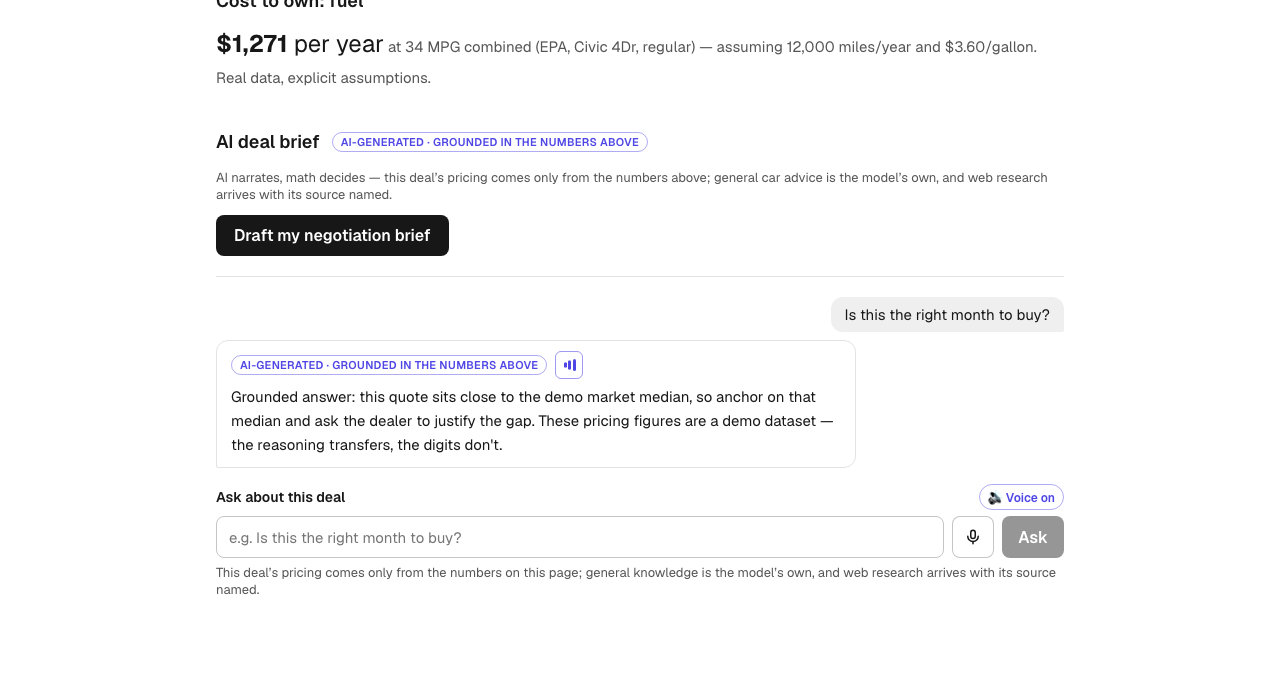
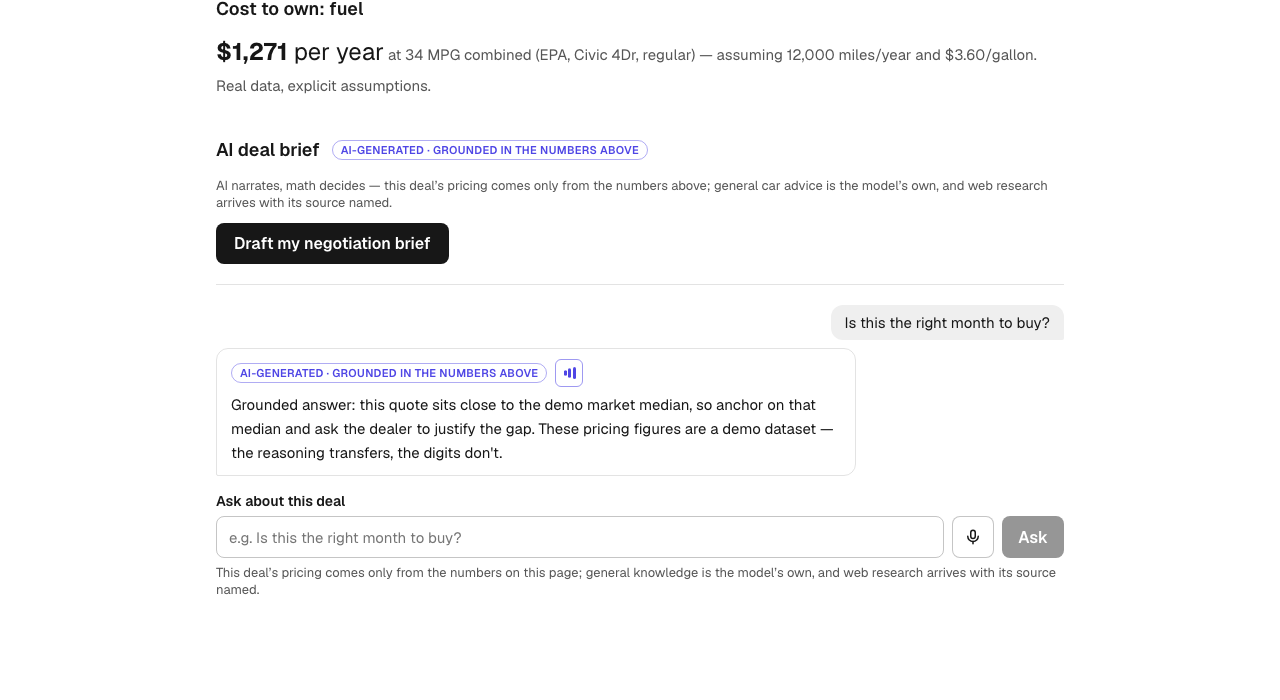
refactor(voice): the reply's speaker is the whole interface
Field feedback: the global Voice on/off pill was redundant — answers
speak automatically, and the 🔊 on each reply already carries the full
contract (pause in place / resume from there / replay). Removed the
toggle and the voicePref store. Also fixed a pre-existing E2E race the
voice work widened: the ask-replay test now waits for the committed
answer bubble instead of text that is already visible while streaming.

diff --git a/src/components/DealBrief/AskThread.test.tsx b/src/components/DealBrief/AskThread.test.tsx
@@ -3,7 +3,6 @@ import { act, fireEvent, render, screen, waitFor } from "@testing-library/react"
 import { FakeRecognizer } from "@/lib/fakeSpeechRecognizer";
 import type { SpeechRecognitionCtor } from "@/lib/useSpeechInput";
 import { primeTtsAvailabilityForTests } from "@/lib/ttsAvailability";
-import { setVoicePref } from "@/lib/voicePref";
 import { resetSpeakerArbiterForTests, type SpeakerDeps } from "@/lib/useSpeaker";
 import { AskThread } from "./AskThread";
 
@@ -131,11 +130,9 @@ describe("AskThread", () => {
     beforeEach(() => {
       primeTtsAvailabilityForTests("enabled");
       resetSpeakerArbiterForTests();
-      // jsdom localStorage persists across tests in a file; pin the pref.
-      setVoicePref(true);
     });
 
-    it("the newest answer speaks on its own when voice replies are on", async () => {
+    it("a finished answer speaks on its own", async () => {
       vi.stubGlobal(
         "fetch",
         vi.fn().mockResolvedValue(streamResponse(["Grounded answer."])),
@@ -153,8 +150,7 @@ describe("AskThread", () => {
       );
     });
 
-    it("stays silent when voice replies are muted — manual play still available", async () => {
-      setVoicePref(false);
+    it("the bubble's speaker pauses in place and resumes on tap", async () => {
       vi.stubGlobal(
         "fetch",
         vi.fn().mockResolvedValue(streamResponse(["Grounded answer."])),
@@ -162,35 +158,19 @@ describe("AskThread", () => {
       const { deps, playable } = fakeSpeaker();
       render(<AskThread {...props} speakerDeps={deps} />);
 
-      const toggle = screen.getByTestId("voice-replies-toggle");
-      expect(toggle).toHaveAttribute("aria-pressed", "false");
-
       ask("Is this the right month to buy?");
-      await waitFor(() => expect(screen.getByTestId("ask-answer")).toBeInTheDocument());
-      expect(playable.play).not.toHaveBeenCalled();
-
-      // The bubble's speaker still plays on demand.
-      fireEvent.click(screen.getByTestId("speaker-button"));
       await waitFor(() => expect(playable.play).toHaveBeenCalledTimes(1));
-    });
 
-    it("muting mid-playback silences the current answer", async () => {
-      vi.stubGlobal(
-        "fetch",
-        vi.fn().mockResolvedValue(streamResponse(["Grounded answer."])),
-      );
-      const { deps, playable } = fakeSpeaker();
-      render(<AskThread {...props} speakerDeps={deps} />);
-
-      ask("Is this the right month to buy?");
-      await waitFor(() => expect(playable.play).toHaveBeenCalled());
-
-      fireEvent.click(screen.getByTestId("voice-replies-toggle"));
+      const speaker = screen.getByTestId("speaker-button");
+      fireEvent.click(speaker);
       expect(playable.pause).toHaveBeenCalled();
-      expect(screen.getByTestId("speaker-button")).toHaveAttribute(
-        "data-state",
-        "paused",
-      );
+      expect(speaker).toHaveAttribute("data-state", "paused");
+
+      fireEvent.click(speaker);
+      await waitFor(() => expect(speaker).toHaveAttribute("data-state", "playing"));
+      // Resume, not replay: one load, no seek.
+      expect(deps.load).toHaveBeenCalledTimes(1);
+      expect(playable.seekToStart).not.toHaveBeenCalled();
     });
   });
 

diff --git a/src/components/DealBrief/AskThread.tsx b/src/components/DealBrief/AskThread.tsx
@@ -5,9 +5,6 @@ import { MicButton } from "@/components/VoiceInput/MicButton";
 import { SpeakerButton } from "@/components/VoiceInput/SpeakerButton";
 import type { SpeechRecognitionCtor } from "@/lib/useSpeechInput";
 import type { SpeakerDeps } from "@/lib/useSpeaker";
-import { stopActivePlayback } from "@/lib/useSpeaker";
-import { useTtsAvailability } from "@/lib/ttsAvailability";
-import { setVoicePref, useVoicePref } from "@/lib/voicePref";
 import { AiBadge, ByokCard } from "./DealBrief";
 import styles from "./AskThread.module.css";
 
@@ -60,8 +57,6 @@ export function AskThread({
   speechRecognitionCtor,
   speakerDeps,
 }: AskThreadProps) {
-  const voiceReplies = useVoicePref();
-  const ttsEnabled = useTtsAvailability() === "enabled";
   const [turns, setTurns] = useState<Turn[]>([]);
   const [draft, setDraft] = useState("");
   /** True while the input shows a live, not-yet-final dictation. */
@@ -136,12 +131,12 @@ export function AskThread({
           <div className={styles.answer} data-testid="ask-answer">
             <span className={styles.answerMeta}>
               <AiBadge />
-              {/* The newest answer speaks on its own (when voice replies
-                  are on); older bubbles keep a manual speaker, and a
-                  paused one resumes exactly where it stopped. */}
+              {/* The newest answer speaks on its own; its 🔊 is the one
+                  control — tap pauses in place, tap resumes from there.
+                  Older bubbles keep their speaker (and their spot). */}
               <SpeakerButton
                 text={turn.a}
-                autoPlay={voiceReplies && index === turns.length - 1}
+                autoPlay={index === turns.length - 1}
                 deps={speakerDeps}
               />
             </span>
@@ -193,32 +188,9 @@ export function AskThread({
       {/* No retry form without a key: retrying can't succeed. */}
       {!noKey && (
         <form className={styles.form} onSubmit={handleSubmit}>
-          <div className={styles.labelRow}>
-            <label className={styles.label} htmlFor="deal-ask-question">
-              Ask about this deal
-            </label>
-            {ttsEnabled && (
-              <button
-                type="button"
-                data-testid="voice-replies-toggle"
-                className={styles.voiceToggle}
-                aria-pressed={voiceReplies}
-                title={
-                  voiceReplies
-                    ? "New answers speak automatically — click to mute"
-                    : "Voice replies are muted — click to let new answers speak"
-                }
-                onClick={() => {
-                  const next = !voiceReplies;
-                  setVoicePref(next);
-                  // Muting silences whatever is talking right now too.
-                  if (!next) stopActivePlayback();
-                }}
-              >
-                {voiceReplies ? "🔊 Voice on" : "🔇 Voice off"}
-              </button>
-            )}
-          </div>
+          <label className={styles.label} htmlFor="deal-ask-question">
+            Ask about this deal
+          </label>
           <div className={styles.inputRow}>
             <input
               id="deal-ask-question"

diff --git a/src/components/DealBrief/AskThread.module.css b/src/components/DealBrief/AskThread.module.css
@@ -78,36 +78,6 @@
   font-weight: 600;
 }
 
-.labelRow {
-  display: flex;
-  align-items: baseline;
-  justify-content: space-between;
-  gap: 0.75rem;
-}
-
-/* Global auto-speak toggle: quiet text control, no layout weight. */
-.voiceToggle {
-  flex: none;
-  padding: 0.125rem 0.5rem;
-  font-size: 0.75rem;
-  font-weight: 600;
-  font-family: inherit;
-  color: var(--color-muted);
-  background: transparent;
-  border: 1px solid var(--color-border);
-  border-radius: 999px;
-  cursor: pointer;
-}
-
-.voiceToggle:hover {
-  color: var(--color-fg);
-  border-color: var(--color-border-strong);
-}
-
-.voiceToggle[aria-pressed="true"] {
-  color: var(--color-accent);
-  border-color: color-mix(in srgb, var(--color-accent) 45%, transparent);
-}
 
 .inputRow {
   display: flex;

diff --git a/e2e/voice-replies.spec.ts b/e2e/voice-replies.spec.ts
@@ -59,23 +59,26 @@ test("a new answer speaks on its own; tap pauses, tap again resumes", async ({
   await expect(speaker).toHaveAttribute("data-state", "playing");
 });
 
-test("the global toggle mutes auto-speak for the next answer", async ({ page }) => {
+test("a second answer takes the floor — the first pauses, resumable in place", async ({
+  page,
+}) => {
   await page.addInitScript(FAKE_AUDIO_INIT);
   await page.goto(DEAL_URL);
 
-  const toggle = page.getByTestId("voice-replies-toggle");
-  await toggle.scrollIntoViewIfNeeded();
-  await expect(toggle).toHaveAttribute("aria-pressed", "true"); // on by default
-  await toggle.click();
-  await expect(toggle).toHaveAttribute("aria-pressed", "false");
-
   await askQuestion(page, "Is this the right month to buy?");
-  const speaker = page.getByTestId("speaker-button");
-  await expect(speaker).toBeVisible();
-  // Muted: no autoplay — but the manual button still works.
-  await expect(speaker).toHaveAttribute("data-state", "idle");
-  await speaker.click();
-  await expect(speaker).toHaveAttribute("data-state", "playing");
+  const speakers = page.getByTestId("speaker-button");
+  await expect(speakers.first()).toHaveAttribute("data-state", "playing");
+
+  await askQuestion(page, "What about the doc fee?");
+  await expect(speakers).toHaveCount(2);
+  // The new answer speaks; the older one paused where it was.
+  await expect(speakers.nth(1)).toHaveAttribute("data-state", "playing");
+  await expect(speakers.nth(0)).toHaveAttribute("data-state", "paused");
+
+  // Tapping the older one resumes it and pauses the newer one.
+  await speakers.nth(0).click();
+  await expect(speakers.nth(0)).toHaveAttribute("data-state", "playing");
+  await expect(speakers.nth(1)).toHaveAttribute("data-state", "paused");
 });
 
 test("the brief gets a listen button and never auto-plays", async ({ page }) => {

diff --git a/e2e/ask.spec.ts b/e2e/ask.spec.ts
@@ -39,6 +39,10 @@ test("a second question replays the first turn to the server", async ({ page }) 
   const thread = page.getByTestId("ask-thread");
   await thread.getByLabel("Ask about this deal").fill(FIRST_QUESTION);
   await thread.getByRole("button", { name: "Ask" }).click();
+  // Wait for the COMMITTED turn, not just its text — the same words are
+  // visible in the streaming bubble a beat earlier, while the form still
+  // ignores submits.
+  await expect(thread.getByTestId("ask-answer")).toHaveCount(1);
   await expect(thread.getByText(/the reasoning transfers/)).toBeVisible();
 
   await thread.getByLabel("Ask about this deal").fill("What about the fuel cost?");

diff --git a/vitest.setup.ts b/vitest.setup.ts
@@ -2,7 +2,6 @@ import "@testing-library/jest-dom/vitest";
 import { beforeEach } from "vitest";
 import { primeSttAvailabilityForTests } from "./src/lib/sttAvailability";
 import { primeTtsAvailabilityForTests } from "./src/lib/ttsAvailability";
-import { resetVoicePrefForTests } from "./src/lib/voicePref";
 
 // The voice availability stores are module-level singletons; pin them
 // per test so no unit test ever hits a network probe. Tests that
@@ -10,5 +9,4 @@ import { resetVoicePrefForTests } from "./src/lib/voicePref";
 beforeEach(() => {
   primeSttAvailabilityForTests("disabled");
   primeTtsAvailabilityForTests("disabled");
-  resetVoicePrefForTests();
 });

diff --git a/README.md b/README.md
@@ -168,12 +168,11 @@ idea at demo scale, as an extension of the honesty red lines
   per-request searches and `AI_WEB_SEARCH=0` turns it off
   ([ADR 005](docs/adr/005-ai-native.md)).
 - **Voice replies**: Q&A answers speak automatically in a warm,
-  conversational TTS voice (`gpt-4o-mini-tts`), with a 🔊 control whose
-  contract is exact — tap pauses at that spot, tap resumes from it, tap
-  after the end replays; only one reply talks at a time, and a 🔇
-  preference (persisted) mutes auto-speak. The brief gets a manual
-  "listen" button. Same key, same guard, audio never stored
-  ([ADR 006](docs/adr/006-voice-input.md)).
+  conversational TTS voice (`gpt-4o-mini-tts`), with one 🔊 control per
+  reply whose contract is exact — tap pauses at that spot, tap resumes
+  from it, tap after the end replays; only one reply talks at a time.
+  The brief gets a manual "listen" button. Same key, same guard, audio
+  never stored ([ADR 006](docs/adr/006-voice-input.md)).
 - **Voice input, two tiers** on both NL surfaces
   ([ADR 006](docs/adr/006-voice-input.md)): the keyless default is the
   browser's Web Speech API, tuned to survive mid-sentence pauses

diff --git a/docs/adr/006-voice-input.md b/docs/adr/006-voice-input.md
@@ -113,9 +113,10 @@ forwards a finished reply to a speech-synthesis model
 (`gpt-4o-mini-tts` by default, `TTS_MODEL`/`TTS_VOICE` tunable) and
 streams the audio straight through — nothing stored, same shared rate
 guard, same honest 503 without the key, `MOCK_TTS=1` for CI. New Q&A
-answers speak automatically (persisted preference, ON by default, one
-🔊/🔇 toggle); the brief is ~1.5 minutes of audio, so it gets a manual
-"listen" button instead.
+answers speak automatically, and each answer's 🔊 is the one control —
+no separate global toggle (field feedback: one button on the reply is
+the whole interface). The brief is ~1.5 minutes of audio, so it gets a
+manual "listen" button instead.
 
 The pause/resume contract came free: the speaker button drives a plain
 `<audio>` element, and the browser's own `pause()` keeps